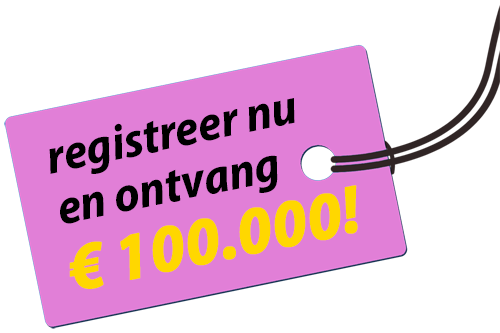
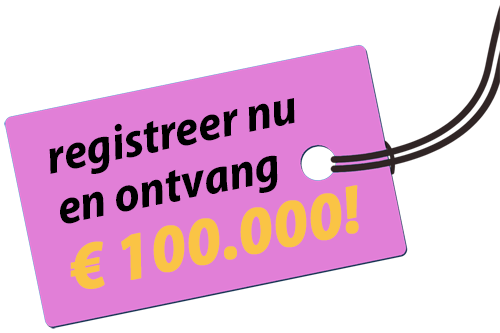
Aanpassing kleurschema, doorvoeren in images.

Changed region(s): [[0.24, 0.5405, 0.72, 0.8408], [0.12, 0.7207, 0.21, 0.8709]]

diff --git a/src/main/resources/static/css/style.css b/src/main/resources/static/css/style.css
@@ -17,7 +17,6 @@ body {    /* Opzet body */
     background-size: cover;
     font-family: diva, Verdana, serif;
     font-size: 17px;
-    /*overflow: hidden;*/
     margin: 0;
     padding: 0;
     min-height: 100vh;
@@ -29,7 +28,7 @@ h1 {    /* Header 1 */
     font-family: bling, Verdana, sans-serif;
     font-size: 38px;
     font-weight: bold;
-    color: gold;
+    color: #fac445;
     text-align: center;
     margin-top: 3px;
     margin-bottom: 30px;
@@ -64,7 +63,7 @@ a {    /* Standaardstijl voor linkjes */
 }
 
 a:hover {    /* Standaardstijl voor gehoverde linkjes */
-    color: gold;
+    color: #f8c448;
 }
 
 input {    /* Standaardstijl invoerveld */
@@ -82,7 +81,7 @@ input {    /* Standaardstijl invoerveld */
 
 input[type="submit"] {    /* Aanpassingen invoervelden van type submit */
     transition-duration: 1.2s;
-    background: #f9e36e;
+    background: #fac953;
     margin-top: 30px;
     margin-bottom: 25px;
     text-align: center;

diff --git a/src/main/resources/static/js/adresAanvulling.js b/src/main/resources/static/js/adresAanvulling.js
@@ -12,7 +12,7 @@ function checkForAddressPart(){
     console.log('pc is valide: ' + regex.test(postcode))
 
     if(regex.test(postcode) && huisnummer){
-        // var data = { postcode: postcode, nr: huisnummer};
+        // let data = { postcode: postcode, nr: huisnummer};
         // stuur data als form data ipv json, want backend accepteert alleen form
         let formData = `postcode=${postcode}&number=${huisnummer}` //postcode=1234AB&nr=15
         fetch("https://postcode.tech/api/v1/postcode?" + formData , {

diff --git a/src/main/resources/static/js/script.js b/src/main/resources/static/js/script.js
@@ -1,7 +1,7 @@
 "use strict";
 
 // Pagina verversen bij klik op #logoDigivault, verbergen van andere lagen
-document.getElementById("logoDigivault").addEventListener("click", verbergRegistratieLaag);
+document.getElementById("logoDigivault").addEventListener("click", verversPagina);
 
 function verversPagina() {
     location.reload();
